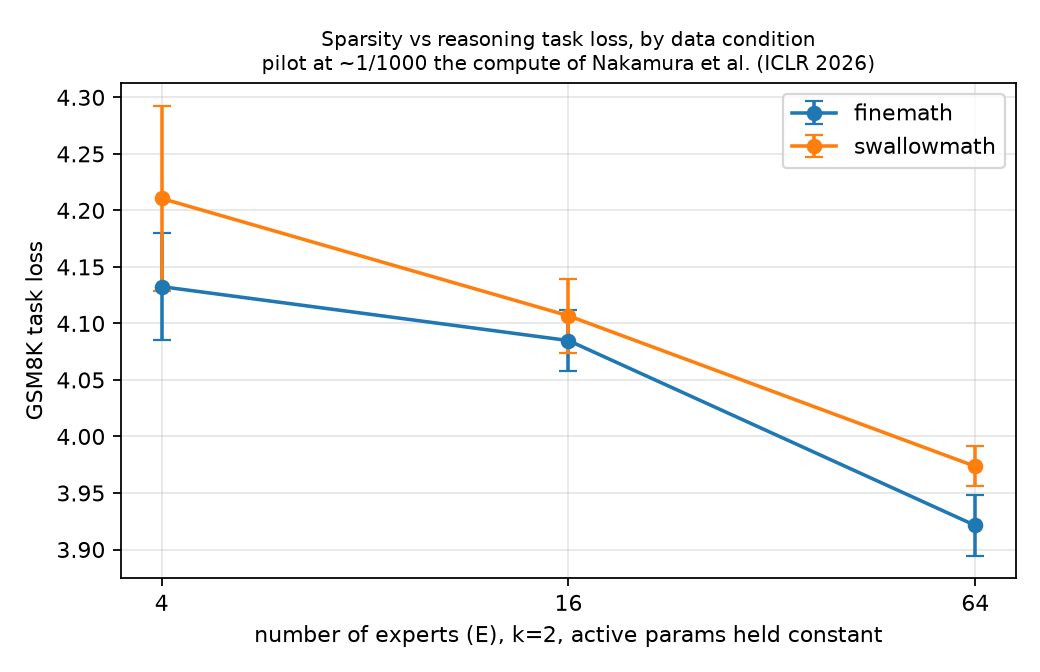
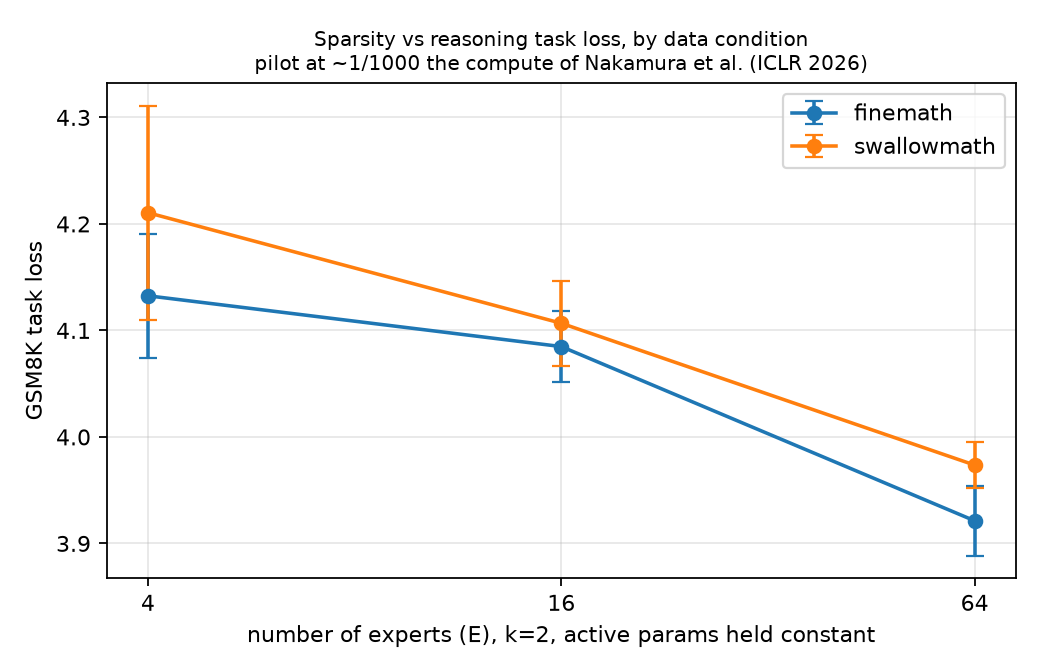
two-panel figure, sample SD error bars

diff --git a/code/step08_summarize.py b/code/step08_summarize.py
@@ -152,7 +152,7 @@ def plot(runs, out="out/phaseC"):
     for cond, d in sorted(by.items()):
         xs = sorted(d)
         ys = [np.mean(d[x]) for x in xs]
-        es = [np.std(d[x]) for x in xs]
+        es = [np.std(d[x], ddof=1) for x in xs]
         ax.errorbar(xs, ys, yerr=es, marker="o", capsize=4, label=cond, lw=1.6)
     ax.set_xscale("log", base=2)
     ax.set_xticks(sorted({e for d in by.values() for e in d}))
